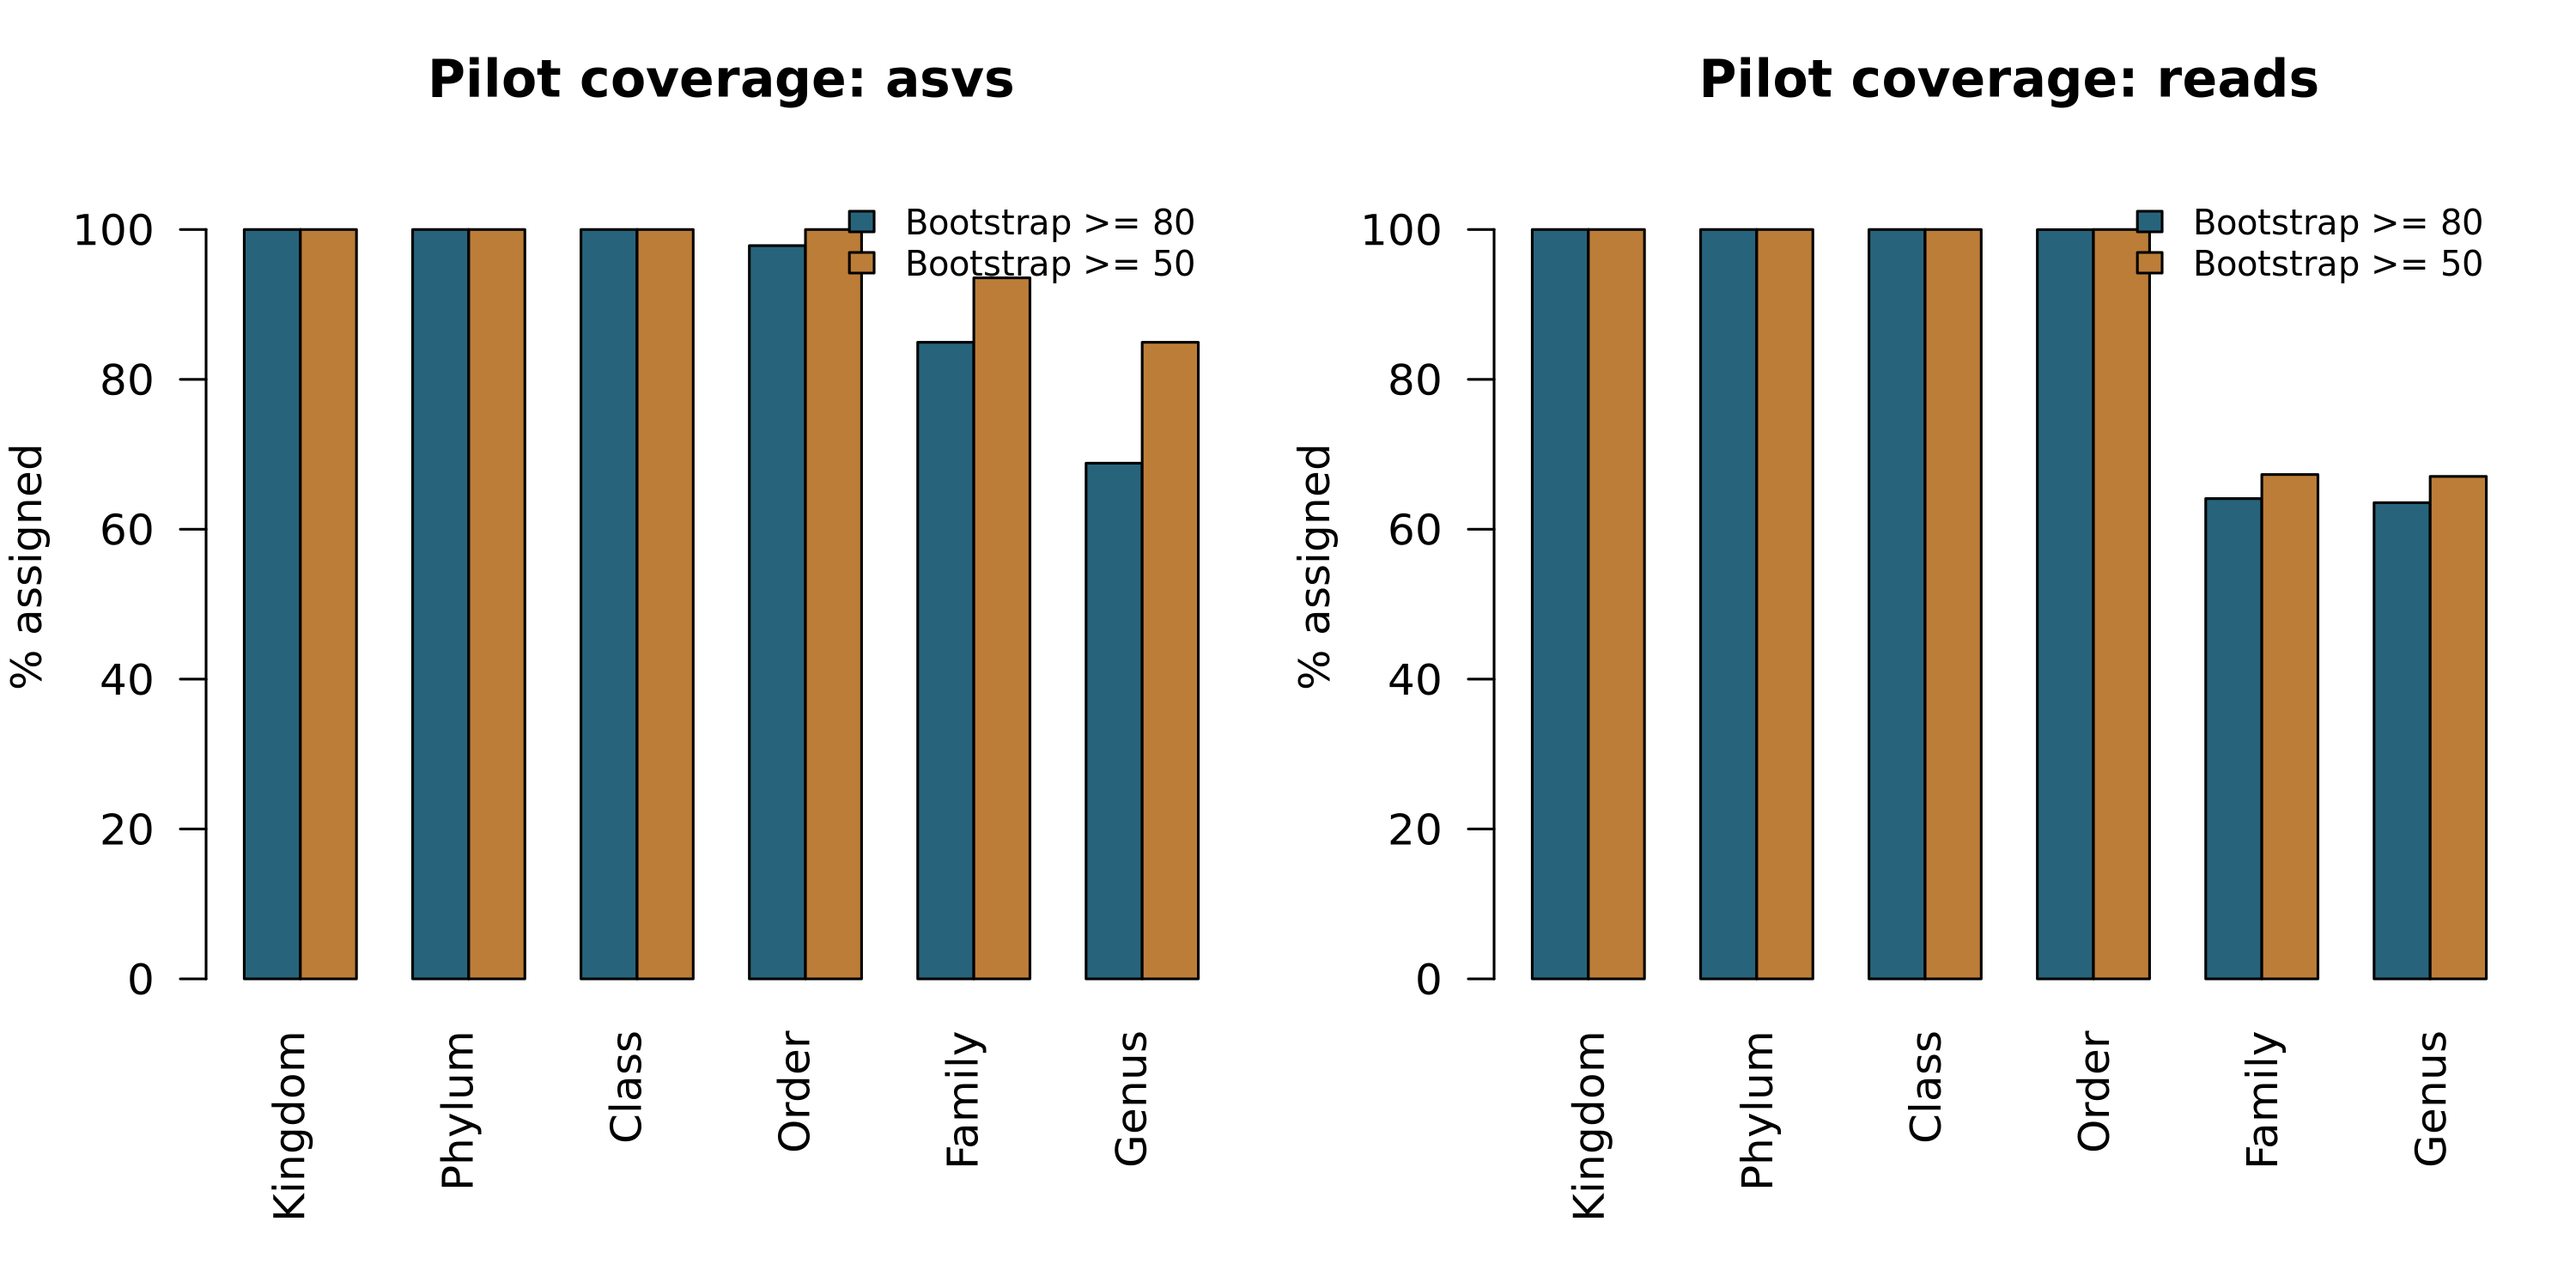
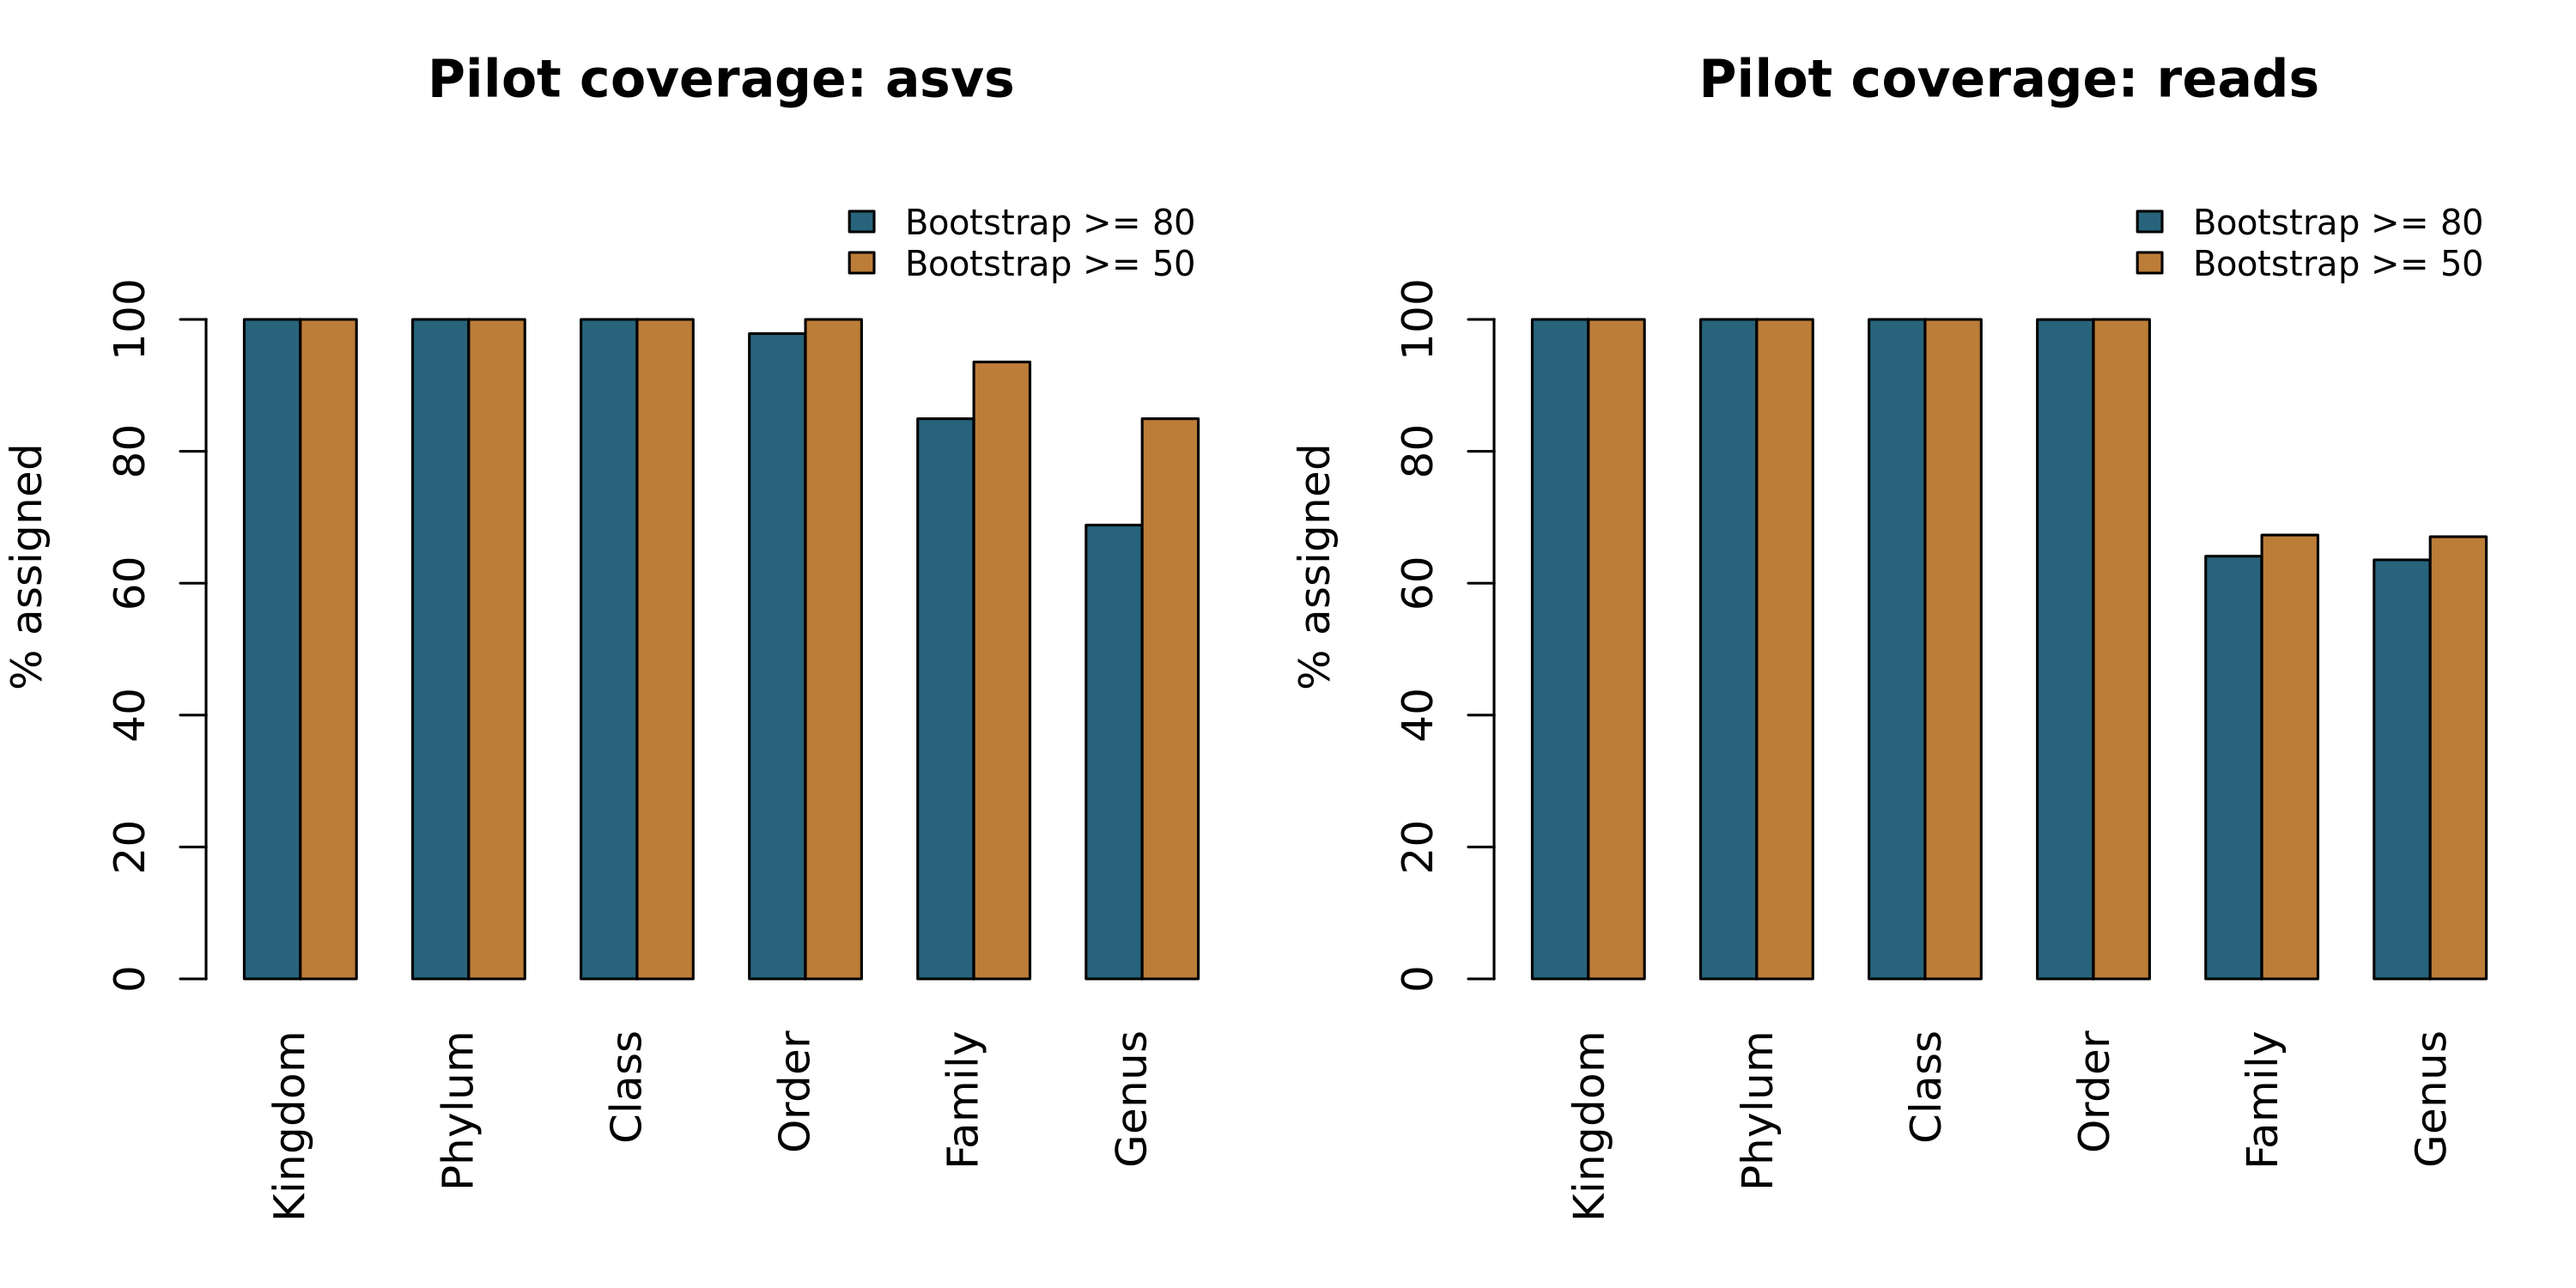
chore: consolidate reproducible pilot taxonomy milestone

diff --git a/PROJECT_STATE.md b/PROJECT_STATE.md
@@ -45,7 +45,7 @@ orgánulos antes de preparar diversidad y ampliar el estudio completo.
   son idénticas a las de la primera corrida técnica.
 - SILVA 138.2 descargada y verificada por bytes, MD5, SHA-256 y lectura completa
   de gzip/FASTA: 452.055 secuencias; base protegida y fuera de Git.
-- Clasificación del 2026-10-09 sobre `d13c9eb`, con checkout limpio al iniciar:
+- Primera clasificación del 2026-10-09 sobre `d13c9eb`, con checkout limpio al iniciar:
   21 entradas y 15 artefactos pasan validación independiente, sin warnings R.
 - Bootstrap 80: 64/93 ASVs asignadas a género, asociadas a 99.481 lecturas
   (63,54 %). Sensibilidad 50: 79/93 ASVs y 104.974 lecturas (67,05 %).
@@ -53,6 +53,8 @@ orgánulos antes de preparar diversidad y ampliar el estudio completo.
   (20,99 %), conservadas sin exclusión automática. Tablas y figuras trazables.
 - Suite actual: 111 pruebas Python en Linux y seis comprobaciones taxonómicas
   R aprobadas; dry-run integrado `all` sin trabajos pendientes.
+- Repetición sobre `4e7ce24` tras ajustar la leyenda: siete tablas científicas
+  idénticas por SHA-256, 21 entradas y 15 artefactos validados. Figuras revisadas.
 
 ## Datasets incluidos
 
@@ -115,9 +117,9 @@ No queda una ejecución activa.
 
 ## Control de versiones
 
-Trabajo en `codex/pilot-taxonomy`, creada desde el `main` integrado (`9f0a478`).
-La fase anterior y sus tres tags están publicados. Los nuevos commits son
-locales hasta publicar la siguiente unidad completa dentro de la autorización.
+Esta etapa se desarrolló en `codex/pilot-taxonomy`, creada desde el `main`
+integrado (`9f0a478`). La fase anterior y sus tres tags están publicados.
+El hito consolidado de esta etapa es `v0.4.0-taxonomy`, limitado al piloto.
 Los datos pesados permanecen ignorados; las salidas pequeñas conservan procedencia.
 El commit `44f5f4a` prerregistra los parámetros; `eafadd7` corrige identificadores
 SRA; `a2bfa82` y `dd4f364` cierran reproducibilidad del workflow QC.
@@ -127,5 +129,10 @@ SRA; `a2bfa82` y `dd4f364` cierran reproducibilidad del workflow QC.
 La procedencia DADA2 registra `git_dirty=true` por documentación y resultados
 previos todavía sin commit al iniciar. Sus seis entradas versionadas (config,
 manifest, scripts R y tablas QC) coinciden byte a byte con `6221445`.
-La procedencia taxonómica registra `git_dirty=false` y el commit `d13c9eb`.
+La primera taxonomía registra `git_dirty=false` sobre `d13c9eb`. Las salidas
+finales proceden de `4e7ce24`: antes de lanzar el workflow el checkout estaba
+limpio; Snakemake retiró sus salidas previas para regenerarlas y el ejecutor
+registra `git_dirty=true` sólo por esas eliminaciones. El código y las entradas
+científicas permanecen fijados por sus hashes; las siete tablas reproducen la
+primera corrida sin cambios.
 Para el checkout exacto usar `git log -1 --oneline` y `git status`.

diff --git a/reports/taxonomy_methods.md b/reports/taxonomy_methods.md
@@ -59,7 +59,7 @@ Las figuras de cobertura se exportan en PDF, SVG y PNG de 300 dpi.
 
 ## Resultados observados del piloto
 
-La ejecución del 2026-10-09 sobre `d13c9eb` empezó con checkout limpio y
+La primera ejecución del 2026-10-09 sobre `d13c9eb` empezó con checkout limpio y
 conservó seis muestras, 93 ASVs y 156.561 lecturas. La validación independiente
 comprobó 21 entradas y 15 artefactos; no hubo warnings R ni exclusiones.
 
@@ -99,3 +99,11 @@ marcas, pertenencia de ASVs y cobertura global/por muestra a partir de las
 tablas R y conteos DADA2. También comprueba los hashes de entradas y salidas.
 Las pruebas con fixtures sintéticos se limitan a parsing y conservación;
 no aportan evidencia científica.
+
+La repetición sobre `4e7ce24`, tras corregir la superposición de la leyenda,
+reproduce por SHA-256 las siete tablas científicas de la primera ejecución.
+Las figuras regeneradas se revisaron visualmente. El checkout estaba limpio
+antes de lanzar el workflow; el estado inicial del ejecutor registra sólo
+las salidas previas retiradas por Snakemake para su regeneración. La
+procedencia final conserva ese estado sin ocultarlo y vuelve a validar los
+21 hashes de entrada y los 15 artefactos.

diff --git a/results/README.md b/results/README.md
@@ -89,10 +89,15 @@ requiere una ruta propia antes de integración taxonómica.
 
 ## Taxonomía del piloto
 
-La clasificación del 2026-10-09 sobre `d13c9eb`, con checkout limpio al iniciar,
+La primera clasificación del 2026-10-09 sobre `d13c9eb`, con checkout limpio al iniciar,
 consume las 93 ASVs y 156.561 lecturas originales de seis muestras. Utiliza
 SILVA NR99 138.2, R 4.4.3 y DADA2 1.34.0. El validador independiente confirma
 21 entradas y 15 artefactos, sin exclusiones ni warnings de clasificación.
+Las salidas finales proceden de una repetición sobre `4e7ce24` después de
+ajustar la leyenda; las siete tablas científicas son idénticas por SHA-256.
+El estado inicial registrado contiene únicamente las salidas previas que
+Snakemake retiró antes de regenerarlas; al iniciar no había cambios sin commit
+de código o entradas.
 
 En `taxonomy/pilot/`, `taxonomy_unfiltered.tsv` conserva las llamadas sin
 máscara; `taxonomy_bootstraps.tsv`, el soporte original; `taxonomy.tsv`, la

diff --git a/CHANGELOG.md b/CHANGELOG.md
@@ -32,6 +32,8 @@ Los cambios importantes de este proyecto se documentarán en este archivo.
   dry-run integrado sin trabajos pendientes.
 - Espacio superior reservado a las leyendas de cobertura, con escala marcada
   de 0 a 100 %, para evitar superposición sobre las barras.
+- Repetición sobre `4e7ce24`: las siete tablas científicas reproducen por
+  SHA-256 la primera clasificación; figuras revisadas y artefactos validados.
 
 ## [v0.3.0-pilot-dada2] - 2026-10-08
 
